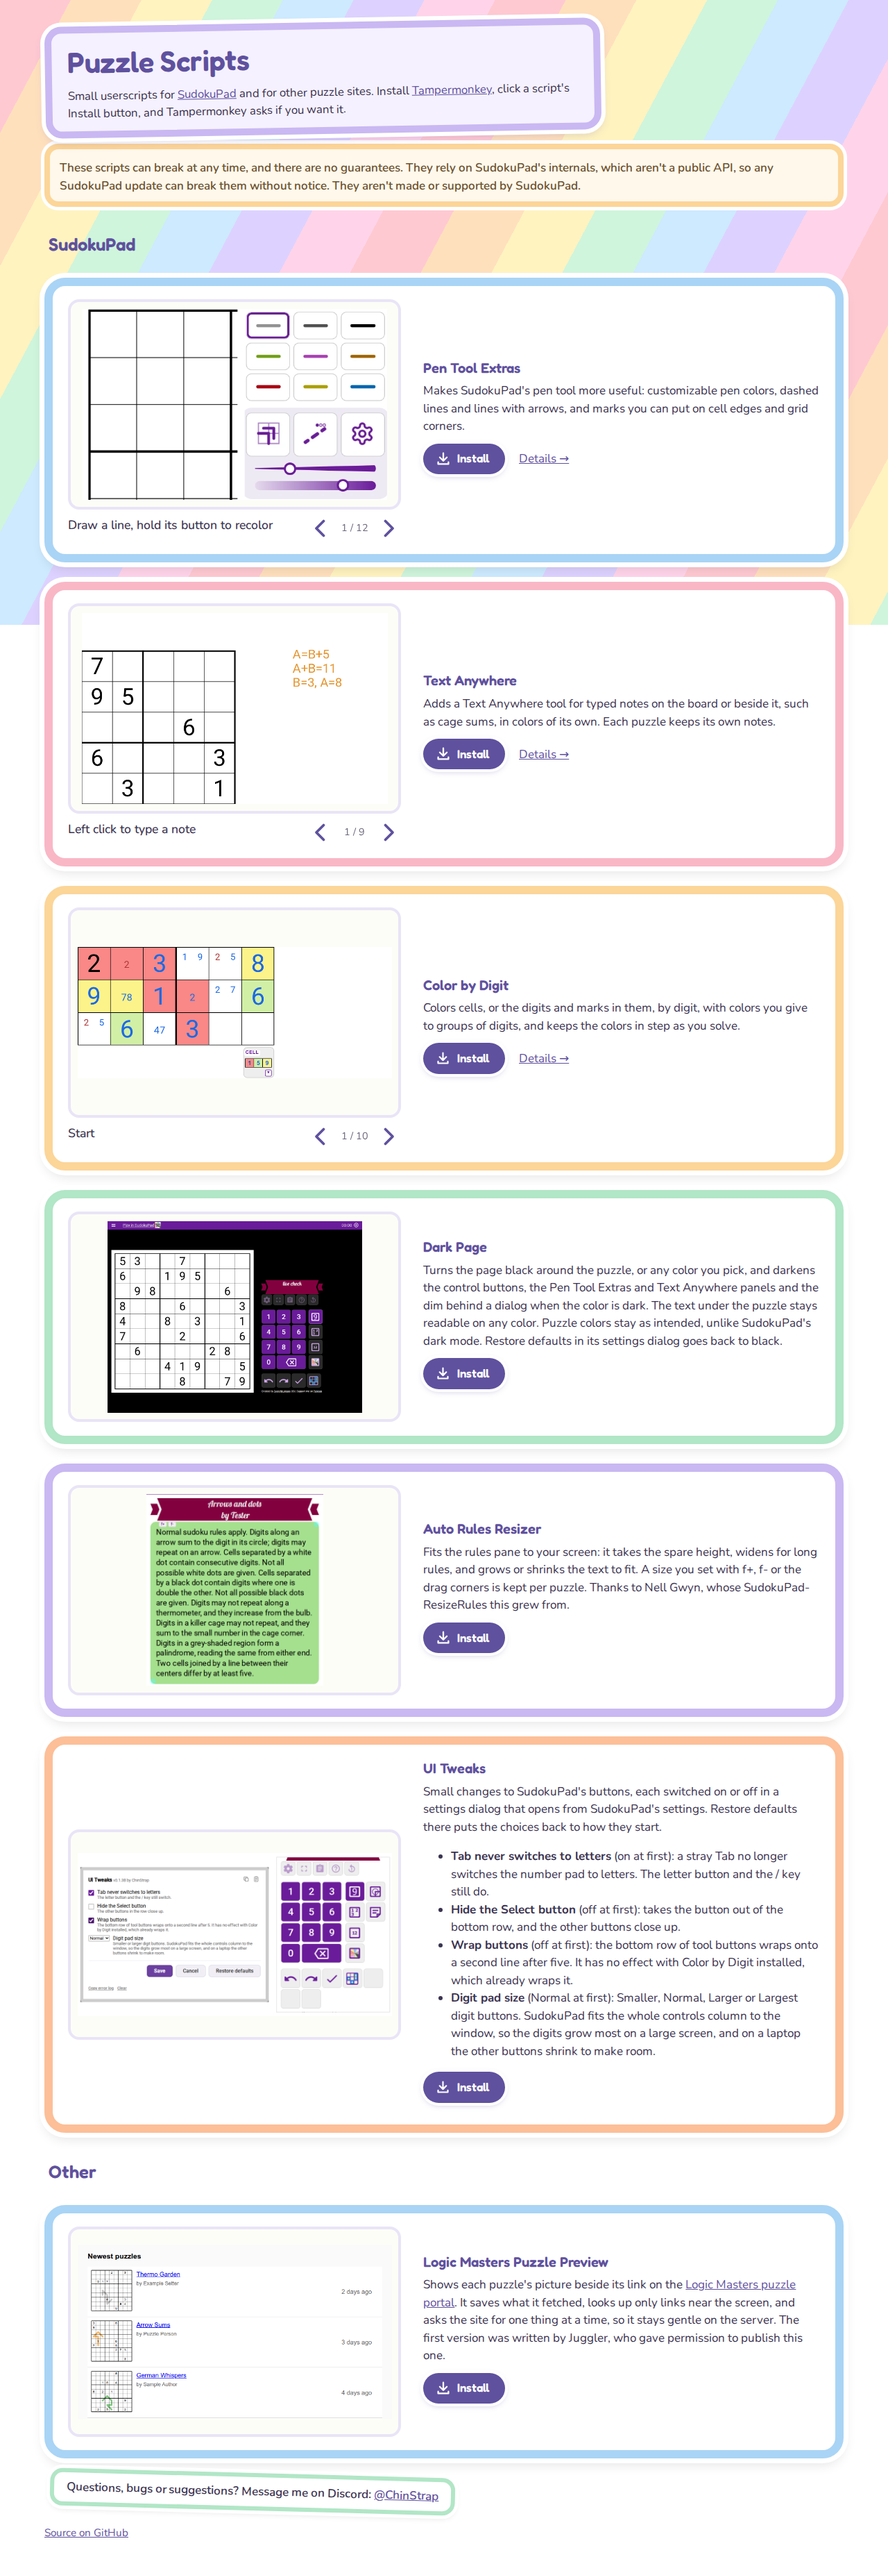
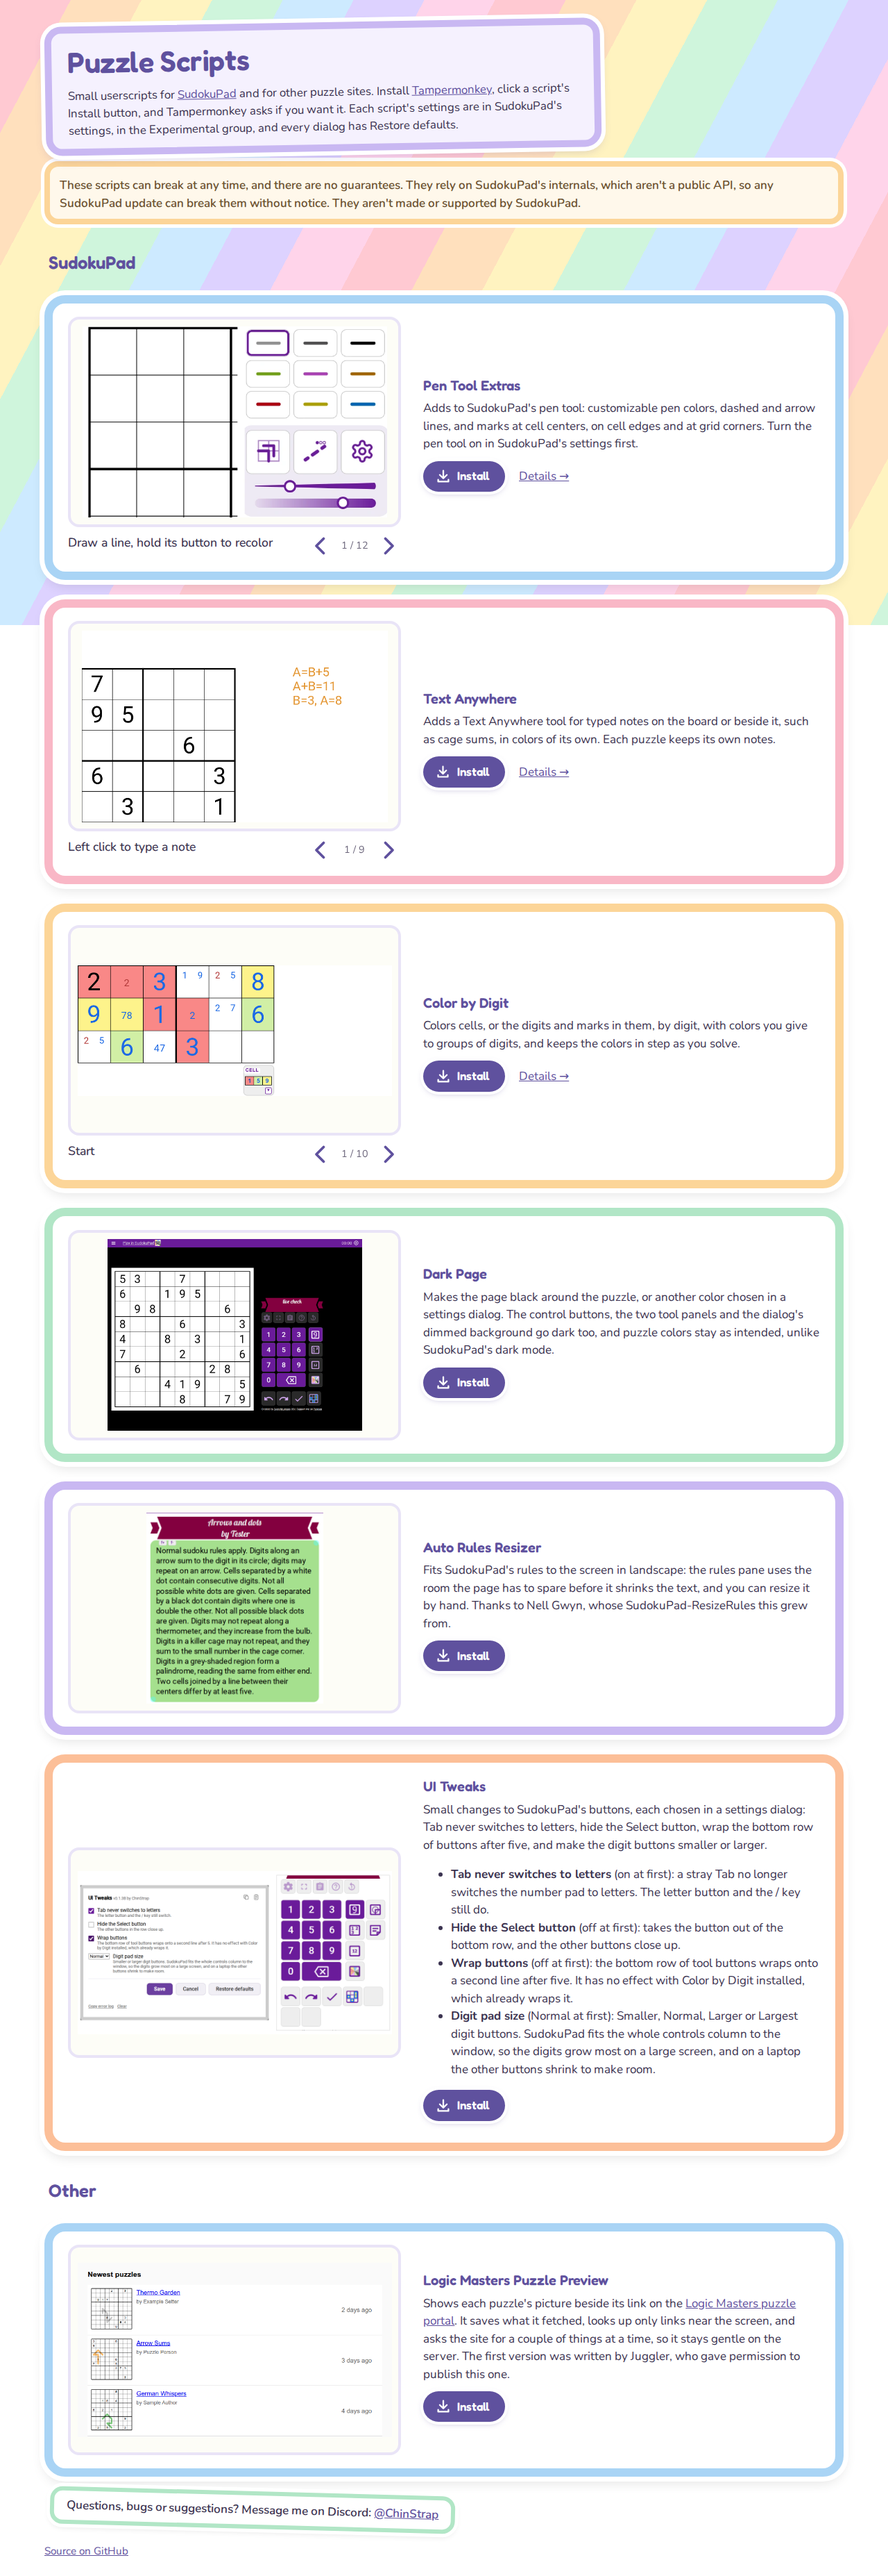
Homepage: put Logic Masters Puzzle Preview back (#1141)
Restores its row and the Other group, the install-link check over every
published script, and the group test; drops the off-the-homepage notes.
Retakes the homepage picture.

Closes #1141

diff --git a/test/site.test.js b/test/site.test.js
@@ -55,11 +55,10 @@ test('every picture the site loads is in a script folder of docs/research/ or in
   }
 })
 
-// A handover (draw-tool.user.js) is an old address kept so installed copies move on, and is never linked. Logic Masters Puzzle Preview is
-// off the homepage for now (Chris, 2026-11-21), so only SudokuPad's scripts are checked.
-test('every SudokuPad script in the repo root has an install link on the homepage (Chris: no script is left off the site)', () => {
+// A handover (draw-tool.user.js) is an old address kept so installed copies move on, and is never linked.
+test('every script in the repo root has an install link on the homepage (Chris: no script is left off the site)', () => {
   const links = scriptLinks(read(HOME))
-  for (const s of scriptFiles()) assert.ok(links.includes(RAW + s), `${s} has no install link on site/${HOME}`)
+  for (const s of publishedScriptFiles()) assert.ok(links.includes(RAW + s), `${s} has no install link on site/${HOME}`)
 })
 
 for (const name of PAGES) {
@@ -246,7 +245,7 @@ test(`${DETAILS} good to know says others need the script to see dashed and arro
 
 // One row per script, in this order, each script's file named for its shown name; Details only where a details page exists.
 const ROWS = [
-  ['Pen Tool Extras', DETAILS], ['Text Anywhere', DRAW], ['Color by Digit', CBD], ['Dark Page', undefined], ['Auto Rules Resizer', undefined], ['UI Tweaks', undefined]
+  ['Pen Tool Extras', DETAILS], ['Text Anywhere', DRAW], ['Color by Digit', CBD], ['Dark Page', undefined], ['Auto Rules Resizer', undefined], ['UI Tweaks', undefined], ['Logic Masters Puzzle Preview', undefined]
 ]
 const rowsOf = html => html.split(/<section class="row(?: row-plain)?">/).slice(1)
 
@@ -278,12 +277,20 @@ test(`${HOME}'s other rows show one picture and no pager`, () => {
   }
 })
 
-// Logic Masters Puzzle Preview is off the homepage for now (Chris, 2026-11-21), so the Other group is gone with it.
-test(`${HOME} puts its rows under a SudokuPad group (the six SudokuPad scripts)`, () => {
+test(`${HOME}'s Logic Masters Puzzle Preview row credits Juggler and says it is gentle on the site`, () => {
+  const row = rowsOf(read(HOME)).find(r => r.includes('<h2>Logic Masters Puzzle Preview</h2>'))
+  assert.ok(row, `site/${HOME} has no Logic Masters Puzzle Preview row`)
+  const text = plain(row)
+  assert.match(text, /first version was written by Juggler/)
+  assert.match(text, /gentle on the server/)
+})
+
+test(`${HOME} splits its rows into a SudokuPad group (the six SudokuPad scripts) and an Other group (Logic Masters Puzzle Preview)`, () => {
   const html = read(HOME)
   const groups = [...html.matchAll(/<h2 class="group">([^<]*)<\/h2>([\s\S]*?)(?=<h2 class="group">|<footer>)/g)].map(m => [m[1], rowsOf(m[2]).map(r => r.match(/<h2>([^<]*)<\/h2>/)[1])])
   assert.deepEqual(groups, [
-    ['SudokuPad', ['Pen Tool Extras', 'Text Anywhere', 'Color by Digit', 'Dark Page', 'Auto Rules Resizer', 'UI Tweaks']]
+    ['SudokuPad', ['Pen Tool Extras', 'Text Anywhere', 'Color by Digit', 'Dark Page', 'Auto Rules Resizer', 'UI Tweaks']],
+    ['Other', ['Logic Masters Puzzle Preview']]
   ])
 })
 

diff --git a/site/index.html b/site/index.html
@@ -225,6 +225,17 @@
       <p class="actions"><a class="install" href="https://raw.githubusercontent.com/caneff/sudokupad-scripts/main/ui-tweaks.user.js">Install<span class="visually-hidden"> UI Tweaks</span></a></p>
     </div>
   </section>
+  <h2 class="group">Other</h2>
+  <section class="row">
+    <div>
+      <div class="slide-frame"><img src="https://raw.githubusercontent.com/caneff/sudokupad-scripts/main/docs/research/logic-masters-puzzle-preview/logic-masters-puzzle-preview.png?v=1ebb489" alt="A list of puzzles, each link with a small picture of its grid beside it" width="760" height="421"></div>
+    </div>
+    <div class="row-text">
+      <h2>Logic Masters Puzzle Preview</h2>
+      <p>Shows each puzzle's picture beside its link on the <a href="https://logic-masters.de/Raetselportal/">Logic Masters puzzle portal</a>. It saves what it fetched, looks up only links near the screen, and asks the site for a couple of things at a time, so it stays gentle on the server. The first version was written by Juggler, who gave permission to publish this one.</p>
+      <p class="actions"><a class="install" href="https://raw.githubusercontent.com/caneff/sudokupad-scripts/main/logic-masters-puzzle-preview.user.js">Install<span class="visually-hidden"> Logic Masters Puzzle Preview</span></a></p>
+    </div>
+  </section>
   </div>
   <p class="sticker">Questions, bugs or suggestions? Message me on Discord: <a href="https://discord.com/users/184770560356646923">@ChinStrap</a></p>
   <footer><a href="https://github.com/caneff/sudokupad-scripts">Source on GitHub</a></footer>

diff --git a/AGENTS.md b/AGENTS.md
@@ -22,8 +22,8 @@ script between `// <lib:name>` and `// </lib:name>` markers, so an installed scr
 - **The daily watch**: `.github/workflows/watch.yml` runs `npm run watch:live`, the full live suite, every night at 06:17 UTC on GitHub Actions (and by hand through
   `workflow_dispatch`); `live/README.md` § The daily watch has the rule.
 - **Logic Masters Puzzle Preview** (`logic-masters-puzzle-preview.user.js`): runs on logic-masters.de, not SudokuPad. Its first version is Juggler's, published here with their permission
-  (Chris, 2026-11-21). `OTHER_SITE_SCRIPTS` in `sync-lib.js` keeps it out of every loop over SudokuPad's scripts (`scriptFiles()`), while the version checks still
-  cover it (`publishedScriptFiles()`). It is off the homepage for now (Chris, 2026-11-21); the README still lists it. No test, check or screenshot requests logic-masters.de, which answered a few requests with a 503: `live/logic-masters-puzzle-preview/` serves synthetic pages.
+  (Chris, 2026-11-21). `OTHER_SITE_SCRIPTS` in `sync-lib.js` keeps it out of every loop over SudokuPad's scripts (`scriptFiles()`), while the homepage and version checks still
+  cover it (`publishedScriptFiles()`). No test, check or screenshot requests logic-masters.de, which answered a few requests with a 503: `live/logic-masters-puzzle-preview/` serves synthetic pages.
   Debugging a bug by hand may query it, a few requests at a time and never in bulk (Chris, 2026-11-21): it answers 503 after a few dozen requests in a minute or two.
 - **`GLOSSARY.md`**: the vocabulary.
 - **A change to what a script shows** (its panel, buttons, dialog or what it draws) updates that script's text in `site/` and retakes the site pictures that
